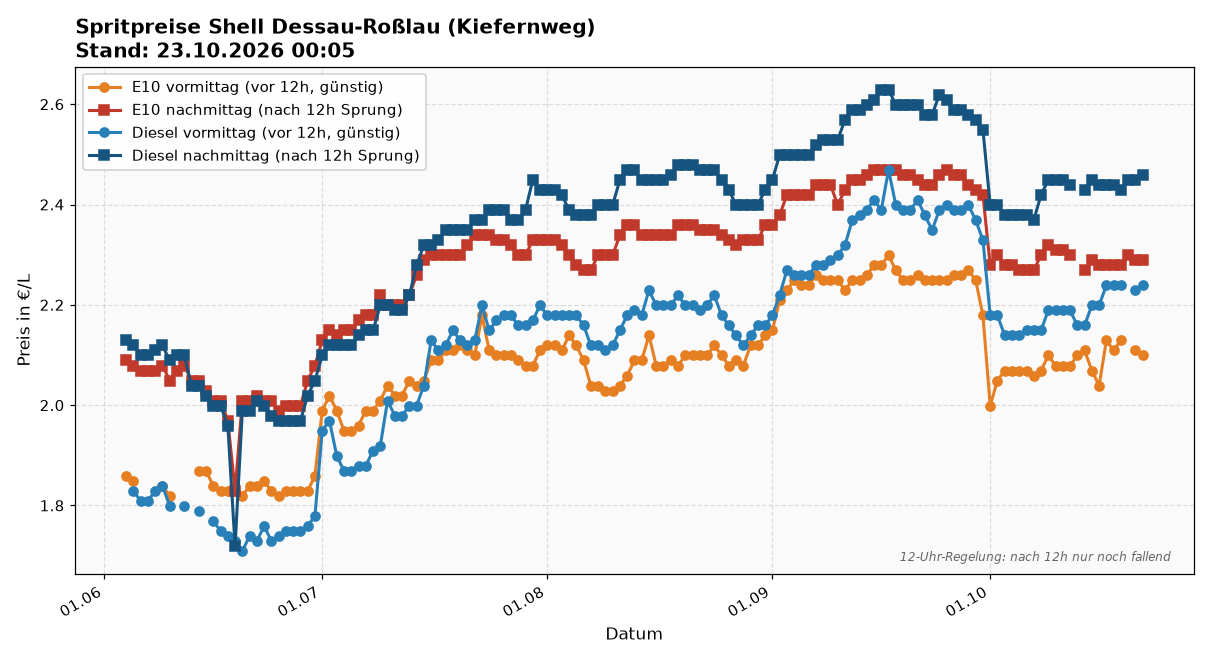
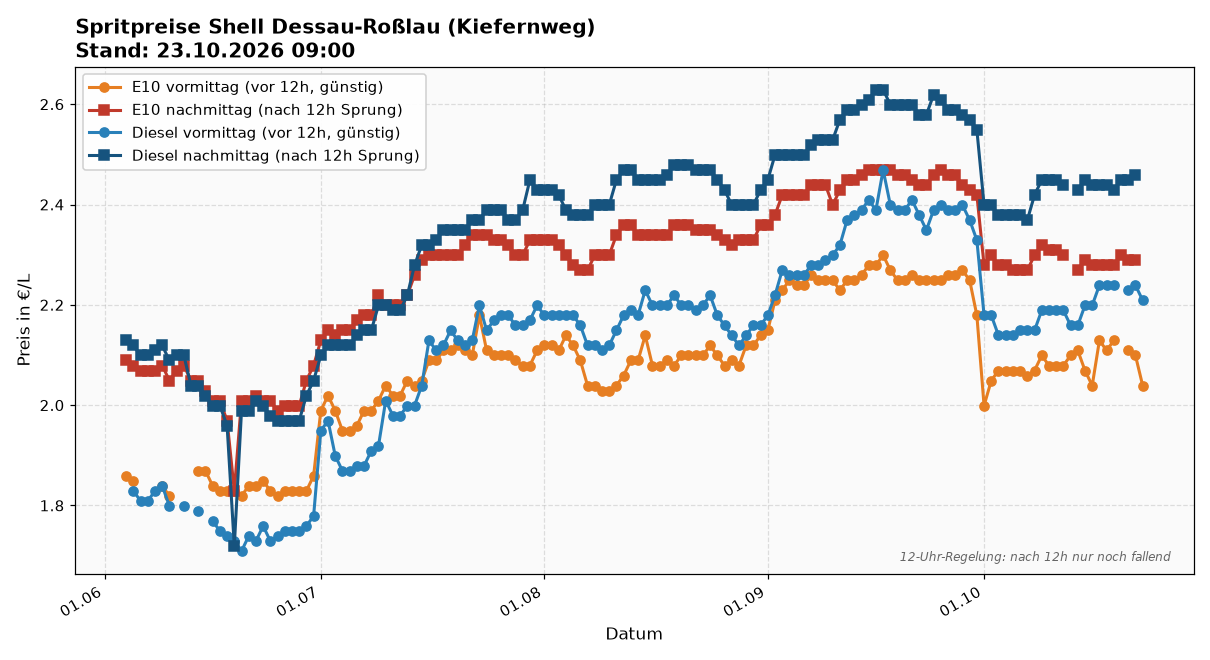
update: spritpreise 2026-10-23 09:00

diff --git a/index.html b/index.html
@@ -19,17 +19,17 @@
 </head>
 <body>
 <h1>🛢 Spritpreise Shell Dessau-Roßlau (Kiefernweg)</h1>
-<div class="sub">Source: Tankerkönig · Stand: 23.10.2026 00:05</div>
+<div class="sub">Source: Tankerkönig · Stand: 23.10.2026 09:00</div>
 
 <img src="latest.png" alt="Preisverlauf">
 
 <div class="latest">
   <strong>Heute (2026-10-23)</strong>
-  <div style="color:#888;font-style:italic;margin-bottom:0.5em;">Noch keine Messung heute — cron läuft 09:00 + 12:10.</div>
+  
   <table>
-    <tr><td>E10 vormittag</td><td class="price">— €</td></tr>
+    <tr><td>E10 vormittag</td><td class="price">2.039 €</td></tr>
     <tr><td>E10 nachmittag</td><td class="price">— €</td></tr>
-    <tr><td>Diesel vormittag</td><td class="price">— €</td></tr>
+    <tr><td>Diesel vormittag</td><td class="price">2.209 €</td></tr>
     <tr><td>Diesel nachmittag</td><td class="price">— €</td></tr>
   </table>
 </div>
